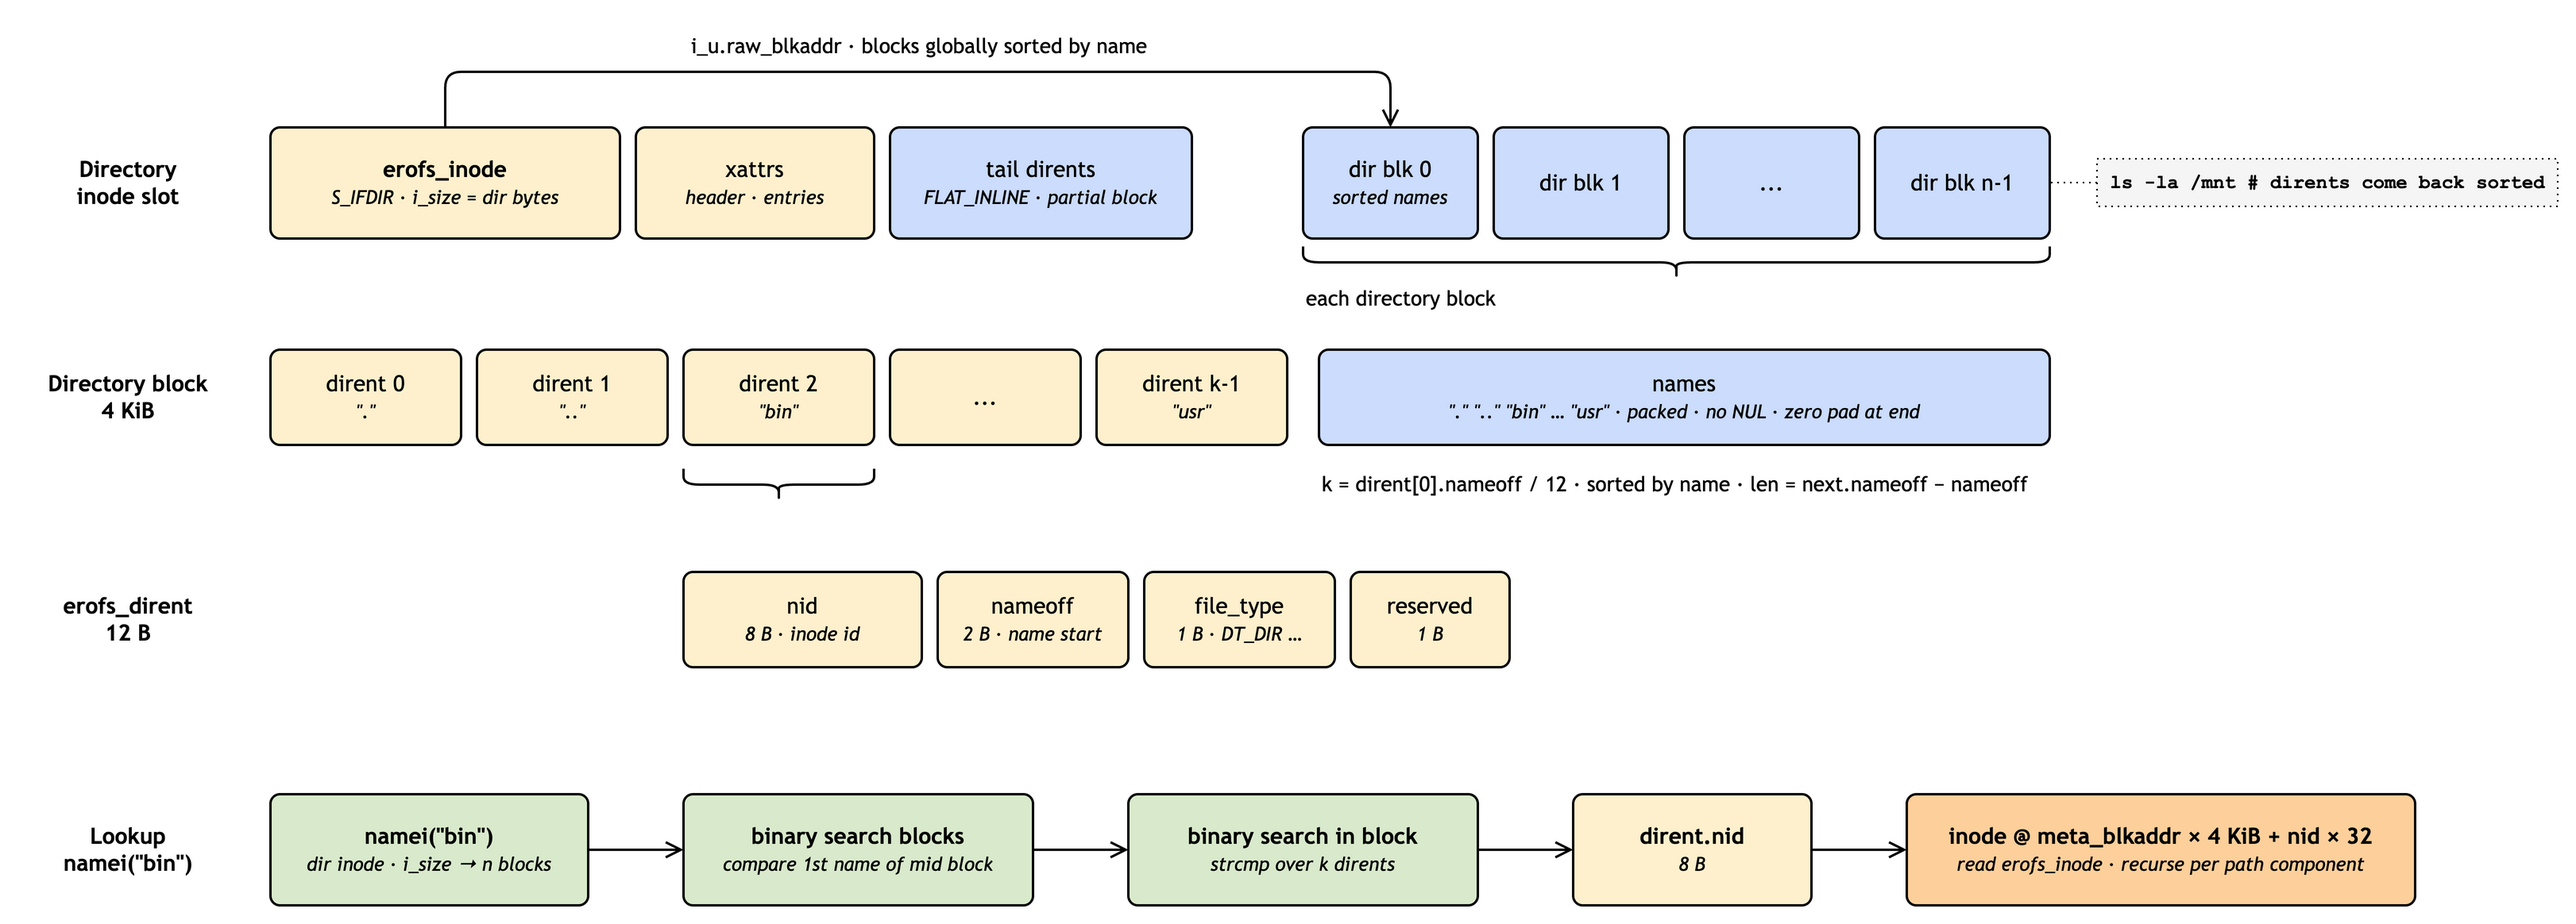
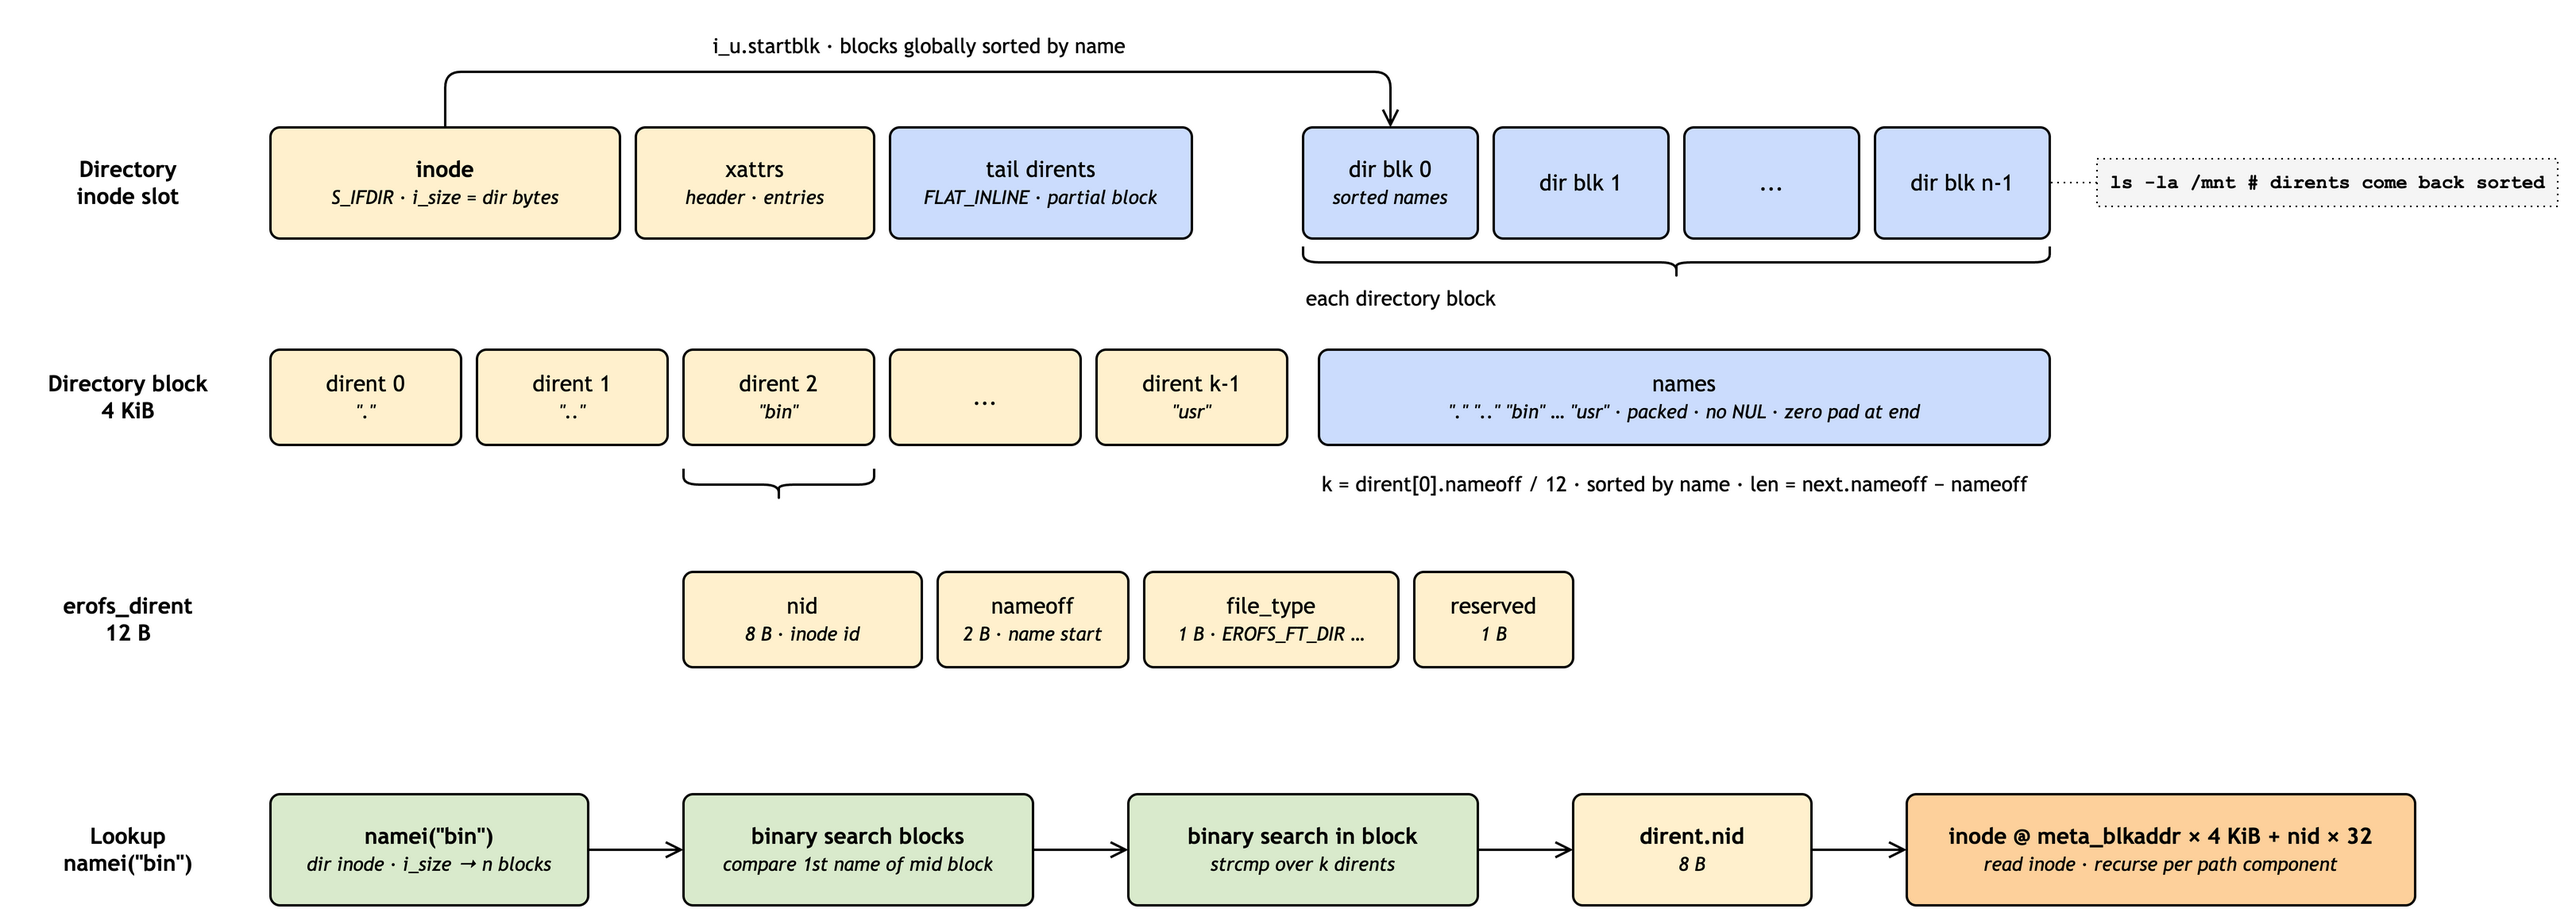
fix(drawio-diagram): ground EROFS layout examples in on-disk sources
Rework the image-layout sample so the superblock field row follows the
struct erofs_super_block declaration order, the stripe row follows the
real mkfs.erofs region order (unused, superblock, device table, shared
xattrs, prefixes, root inode, inodes, data), and the inode-metadata zone
is shown as a grouped block with its nid formula. Field-to-region arrows
now use staggered elbow routes and are allowed to cross.

Fix naming across all examples: use `i_u.startblk` instead of the
deprecated `raw_blkaddr`, `EROFS_FT_DIR` instead of VFS `DT_DIR`, and
on-disk struct names (`erofs_inode_compact`) instead of `erofs_inode`.

Update the skill guide with a mandatory "read authoritative sources
first" step, consistent-naming rules, the three-row layout-diagram
pattern, crossing-arrow guidance, and new checklist items for text
overflow and grep-able identifiers. Regenerate the PNG samples.

diff --git a/skills/drawio-diagram/assets/examples.py b/skills/drawio-diagram/assets/examples.py
@@ -6,49 +6,62 @@ def out(d, name): d.save(OUT + name + '.drawio'); d.export(OUT + name + '.drawio
 F = dict(size=13, align='left')
 
 # ================= 1. Overall image layout + addressing =================
+# Superblock row: struct erofs_super_block field order (fs/erofs/erofs_fs.h; offsets from
+# erofs.docs.kernel.org/en/latest/ondisk/core_ondisk.html). meta_blkaddr = "start block address of the
+# inode-metadata zone", inode_offset = meta_blkaddr * block_size + 32 * nid. Only the superblock has a fixed
+# offset (1024); the region order below is what mkfs.erofs emits (erofs-utils mkfs/main.c: erofs_reserve_sb →
+# erofs_mkfs_init_devices → erofs_load_shared_xattrs_from_path → erofs_xattr_flush_name_prefixes → root inode).
 d = Diagram()
 d.text('Superblock\nkey fields', 20, 40, 120, 60, bold=True)
-SB = [('magic', 'E0F5E1E2'), ('blkszbits', '12 → 4 KiB'), ('root_nid', 'root dir inode'), ('meta_blkaddr', 'metadata start'),
-      ('inos', 'inode count'), ('xattr_blkaddr', 'shared xattr start'), ('blocks', 'fs size in blocks'), ('devt_slotoff', 'device table')]
-cells = [d.box(t, 170 + i * 120, 40, 110, 60, 'orange', bold=False, sub=s) for i, (t, s) in enumerate(SB)]
-n0 = d.note('dump.erofs -S image.erofs', 1160, 55, 210, 30, 'grey'); d.dotted(cells[7], n0, (1, .5), (0, .5))
+SB = [('magic', '0x00 · E0F5E1E2'), ('blkszbits', '0x0C · 12 → 4 KiB'), ('root_nid', '0x0E · root dir nid'), ('inos', '0x10 · inode count'),
+      ('blocks', '0x24 · block count'), ('meta_blkaddr', '0x28 · inode zone start'), ('xattr_blkaddr', '0x2C · shared xattr start'),
+      ('devt_slotoff', '0x58 · device table'), ('xattr_prefix_start', '0x5C · long prefixes')]
+cells = [d.box(t, 170 + i * 128, 40, 120, 60, 'orange', bold=False, sub=s) for i, (t, s) in enumerate(SB)]
+n0 = d.note('dump.erofs -S image.erofs', 1330, 55, 210, 30, 'grey'); d.dotted(cells[8], n0, (1, .5), (0, .5))
 
-d.text('Image\nLayout', 20, 200, 120, 70, bold=True)
-sb = d.box('Superblock', 170, 200, 150, 70, 'orange', sub='@1024 · 128 B')
-meta = d.box('Metadata Area', 330, 200, 340, 70, 'yellow', sub='inode slots · xattrs · tail data')
-sx = d.box('Shared xattrs', 680, 200, 260, 70, 'yellow', sub='xattr_blkaddr · 4 B aligned')
-data = d.box('Data Area', 950, 200, 280, 70, 'blue', sub='file & directory blocks')
-dev = d.box('Device Table', 1240, 200, 150, 70, 'green', sub='extra devices · blobs')
-d.dotted(cells[0], sb, (.5, 1), (0.367, 0))
-d.edge(cells[2], meta, (.5, 1), (0.397, 0), 'root inode', offset=(40, 0))
-d.edge(cells[3], meta, (.5, 1), (0.75, 0), 'start', offset=(26, 0))
-d.edge(cells[5], sx, (.5, 1), (0.558, 0), 'start', offset=(26, 0))
-d.edge(cells[7], dev, (.5, 1), (.5, 0), points=[(1065, 150), (1315, 150)])
+d.text('Image\nLayout', 20, 270, 120, 70, bold=True)
+zone = d.group(170, 250, 1070, 125, '', 'yellow-bg')
+d.text('inode-metadata zone · starts at meta_blkaddr × 4 KiB · nid = (offset − start) / 32 · root inode = start + root_nid × 32', 180, 342, 1050, 26, **F)
+d.box('unused', 180, 265, 90, 70, 'grey', bold=False, sub='1 KiB · nid 0–31')
+sb = d.box('Superblock', 280, 265, 150, 70, 'orange', sub='@1024 · 128 B · nid 32–35')
+dev = d.box('Device Table', 440, 265, 150, 70, 'green', sub='128 B slots · multi-dev')
+sx = d.box('Shared xattrs', 600, 265, 160, 70, 'yellow', sub='4 B aligned · if any')
+px = d.box('xattr prefixes', 770, 265, 130, 70, 'yellow', bold=False, sub='long names · if any')
+root = d.box('root inode', 910, 265, 130, 70, 'yellow', sub='nid 36 when alone')
+d.box('inodes …', 1050, 265, 180, 70, 'yellow', sub='inode · xattrs · extents · tail')
+data = d.box('Data blocks', 1255, 265, 200, 70, 'blue', sub='4 KiB aligned · may interleave with later metadata')
+# field → region arrows; struct order vs. image order differ, so they cross (elbow levels 125…205)
+d.dotted(cells[0], sb, (.5, 1), (.5, 0))
+d.edge(cells[5], zone, (.5, 1), (0, 0), '× 4 KiB · zone start · 0 by default', points=[(870, 125), (170, 125)], pos=-0.49, offset=(0, -10))
+d.edge(cells[6], sx, (.5, 1), (.5, 0), '× 4 KiB', points=[(998, 145), (680, 145)], offset=(0, -10))
+d.edge(cells[7], dev, (.5, 1), (.5, 0), '× 128 B', points=[(1126, 165), (515, 165)], offset=(0, -10))
+d.edge(cells[8], px, (.5, 1), (.5, 0), '× 4 B', points=[(1254, 185), (835, 185)], offset=(0, -10))
+d.edge(cells[2], root, (.5, 1), (.5, 0), '× 32 B', points=[(486, 205), (975, 205)], pos=0.15, offset=(0, -10))
 
-d.text('Addressing', 20, 340, 120, 100, bold=True)
-for i, t in enumerate(['nid 0', 'nid 1', 'nid 2']): d.box(t, 330 + i * 110, 340, 100, 60, 'yellow', bold=False, sub='32 B slot')
-d.brace(330, 650, 325, up=True); d.text('addr = meta_blkaddr × 4 KiB + nid × 32', 330, 415, 340, 20, **F)
-for i, t in enumerate(['id 0', 'id 1']): d.box(t, 680 + i * 110, 340, 100, 60, 'yellow', bold=False, sub='4 B unit')
-d.brace(680, 890, 325, up=True); d.text('addr = xattr_blkaddr × 4 KiB + id × 4', 680, 415, 260, 20, **F)
-for i, t in enumerate(['blk 0', 'blk 1', '...']): d.box(t, 950 + i * 90, 340, 80, 60, 'blue', bold=False)
-d.brace(950, 1210, 325, up=True); d.text('addr = blkaddr × 4 KiB', 950, 415, 280, 20, **F)
+d.text('Addressing', 20, 440, 120, 100, bold=True)
+for i, t in enumerate(['id 0', 'id 1']): d.box(t, 600 + i * 85, 440, 75, 60, 'yellow', bold=False, sub='4 B unit')
+d.brace(600, 760, 425, up=True); d.text('addr = xattr_blkaddr × 4 KiB + id × 4', 600, 515, 300, 20, **F)
+for i, t in enumerate(['nid 36', 'nid 37', '...']): d.box(t, 910 + i * 110, 440, 100, 60, 'yellow', bold=False, sub='32 B slot')
+d.brace(910, 1230, 425, up=True); d.text('addr = meta_blkaddr × 4 KiB + nid × 32', 910, 515, 320, 20, **F)
+for i, t in enumerate(['blk 0', 'blk 1']): d.box(t, 1255 + i * 100, 440, 90, 60, 'blue', bold=False)
+d.brace(1255, 1455, 425, up=True); d.text('addr = blkaddr × 4 KiB', 1255, 515, 200, 20, **F)
 out(d, 'erofs-image-layout')
 
 # ================= 2. Regular file =================
 d = Diagram()
 d.text('Regular file\ninode slot', 20, 60, 120, 70, bold=True)
-ino = d.box('erofs_inode', 170, 60, 220, 70, 'yellow', sub='compact 32 B · extended 64 B')
+ino = d.box('inode', 170, 60, 220, 70, 'yellow', sub='erofs_inode_compact 32 B · erofs_inode_extended 64 B')
 d.box('xattr_ibody_header', 400, 60, 160, 70, 'yellow', bold=False, sub='12 B · h_shared_count')
 d.box('shared ids', 570, 60, 130, 70, 'yellow', bold=False, sub='4 B × count')
 d.box('inline xattrs', 710, 60, 190, 70, 'yellow', bold=False, sub='entry 4 B · name · value')
 d.box('tail data', 910, 60, 150, 70, 'blue', bold=False, sub='FLAT_INLINE only')
 b0 = d.box('blk a', 1130, 60, 100, 70, 'blue', bold=False)
 for i, t in enumerate(['blk a+1', '...', 'blk a+n-1']): d.box(t, 1240 + i * 110, 60, 100, 70, 'blue', bold=False)
-d.edge(ino, b0, (.5, 0), (.5, 0), 'i_u.raw_blkaddr · n full blocks in data area', points=[(280, 25), (1180, 25)], offset=(0, -6), lstyle='verticalAlign=bottom;')
+d.edge(ino, b0, (.5, 0), (.5, 0), 'i_u.startblk · n full blocks in data area', points=[(280, 25), (1180, 25)], offset=(0, -6), lstyle='verticalAlign=bottom;')
 d.brace(1130, 1560, 145, up=False); d.text('i_size = n × 4 KiB + len(tail)', 1130, 158, 430, 20, **F)
 d.brace(170, 390, 145, up=False)
-IN = [('i_format', 'ver · datalayout'), ('i_xattr_icount', 'xattr size / 4'), ('i_mode', 'S_IFREG · perms'), ('i_nlink', 'link count'),
-      ('i_size', 'bytes'), ('i_ino', 'inode number'), ('i_uid · i_gid', 'owner'), ('i_u', 'raw_blkaddr'), ('i_mtime', 'extended only')]
+IN = [('i_format', 'ver · datalayout'), ('i_xattr_icount', '(n−1)×4 + 12 B'), ('i_mode', 'S_IFREG · perms'), ('i_nlink', 'link count'),
+      ('i_size', 'bytes'), ('i_ino', 'inode number'), ('i_uid · i_gid', 'owner'), ('i_u', 'startblk · rdev'), ('i_mtime', 'extended only')]
 cells = [d.box(t, 170 + i * 120, 200, 110, 60, 'yellow', bold=False, sub=s) for i, (t, s) in enumerate(IN)]
 d.text('addr(nid) = meta_blkaddr × 4 KiB + nid × 32 · compact inode = 1 slot · extended = 2 slots', 170, 275, 800, 20, **F)
 n1 = d.note('dump.erofs --nid=<nid> image.erofs', 1270, 215, 270, 30, 'grey'); d.dotted(cells[8], n1, (1, .5), (0, .5))
@@ -57,7 +70,7 @@ d.text('Data\naddressing', 20, 360, 120, 60, bold=True)
 s1 = d.box('file offset X', 170, 360, 160, 60, 'green')
 s2 = d.box('blk = X >> 12', 390, 360, 160, 60, 'green', sub='4 KiB blocks')
 q = d.box('blk < n ?', 610, 360, 160, 60, 'yellow')
-s3 = d.box('addr = (raw_blkaddr + blk) × 4 KiB + X mod 4 KiB', 830, 360, 440, 60, 'green', sub='in data area')
+s3 = d.box('addr = (startblk + blk) × 4 KiB + X mod 4 KiB', 830, 360, 440, 60, 'green', sub='in data area')
 t = d.box('tail data · right after inode & xattrs', 610, 480, 420, 60, 'blue', sub='FLAT_INLINE · X mod 4 KiB into tail')
 d.hedge(s1, s2); d.hedge(s2, q); d.hedge(q, s3, 'yes'); d.edge(q, t, (.5, 1), (0.19, 0), 'no', offset=(-14, 0))
 out(d, 'erofs-file-layout')
@@ -65,12 +78,12 @@ out(d, 'erofs-file-layout')
 # ================= 3. Directory + lookup =================
 d = Diagram()
 d.text('Directory\ninode slot', 20, 60, 120, 70, bold=True)
-ino = d.box('erofs_inode', 170, 60, 220, 70, 'yellow', sub='S_IFDIR · i_size = dir bytes')
+ino = d.box('inode', 170, 60, 220, 70, 'yellow', sub='S_IFDIR · i_size = dir bytes')
 d.box('xattrs', 400, 60, 150, 70, 'yellow', bold=False, sub='header · entries')
 d.box('tail dirents', 560, 60, 190, 70, 'blue', bold=False, sub='FLAT_INLINE · partial block')
 b0 = d.box('dir blk 0', 820, 60, 110, 70, 'blue', bold=False, sub='sorted names')
 for i, t in enumerate(['dir blk 1', '...', 'dir blk n-1']): d.box(t, 940 + i * 120, 60, 110, 70, 'blue', bold=False)
-d.edge(ino, b0, (.5, 0), (.5, 0), 'i_u.raw_blkaddr · blocks globally sorted by name', points=[(280, 25), (875, 25)], offset=(0, -6), lstyle='verticalAlign=bottom;')
+d.edge(ino, b0, (.5, 0), (.5, 0), 'i_u.startblk · blocks globally sorted by name', points=[(280, 25), (875, 25)], offset=(0, -6), lstyle='verticalAlign=bottom;')
 n2 = d.note('ls -la /mnt  # dirents come back sorted', 1320, 80, 290, 30, 'grey'); d.dotted(n2, 'c8', (0, .5), (1, .5))
 d.brace(820, 1290, 145, up=False); d.text('each directory block', 820, 158, 470, 20, **F)
 
@@ -82,7 +95,7 @@ d.text('k = dirent[0].nameoff / 12 · sorted by name · len = next.nameoff − n
 d.brace(430, 550, 285, up=False)
 
 d.text('erofs_dirent\n12 B', 20, 340, 120, 60, bold=True)
-DF = [('nid', 430, 150, '8 B · inode id'), ('nameoff', 590, 120, '2 B · name start'), ('file_type', 720, 120, '1 B · DT_DIR …'), ('reserved', 850, 100, '1 B')]
+DF = [('nid', 430, 150, '8 B · inode id'), ('nameoff', 590, 120, '2 B · name start'), ('file_type', 720, 160, '1 B · EROFS_FT_DIR …'), ('reserved', 890, 100, '1 B')]
 for t, x, w, s in DF: d.box(t, x, 340, w, 60, 'yellow', bold=False, sub=s)
 
 d.text('Lookup\nnamei("bin")', 20, 480, 120, 70, bold=True)
@@ -90,7 +103,7 @@ l1 = d.box('namei("bin")', 170, 480, 200, 70, 'green', sub='dir inode · i_size 
 l2 = d.box('binary search blocks', 430, 480, 220, 70, 'green', sub='compare 1st name of mid block')
 l3 = d.box('binary search in block', 710, 480, 220, 70, 'green', sub='strcmp over k dirents')
 l4 = d.box('dirent.nid', 990, 480, 150, 70, 'yellow', sub='8 B')
-l5 = d.box('inode @ meta_blkaddr × 4 KiB + nid × 32', 1200, 480, 320, 70, 'orange', sub='read erofs_inode · recurse per path component')
+l5 = d.box('inode @ meta_blkaddr × 4 KiB + nid × 32', 1200, 480, 320, 70, 'orange', sub='read inode · recurse per path component')
 d.hedge(l1, l2); d.hedge(l2, l3); d.hedge(l3, l4); d.hedge(l4, l5)
 out(d, 'erofs-dir-layout')
 
